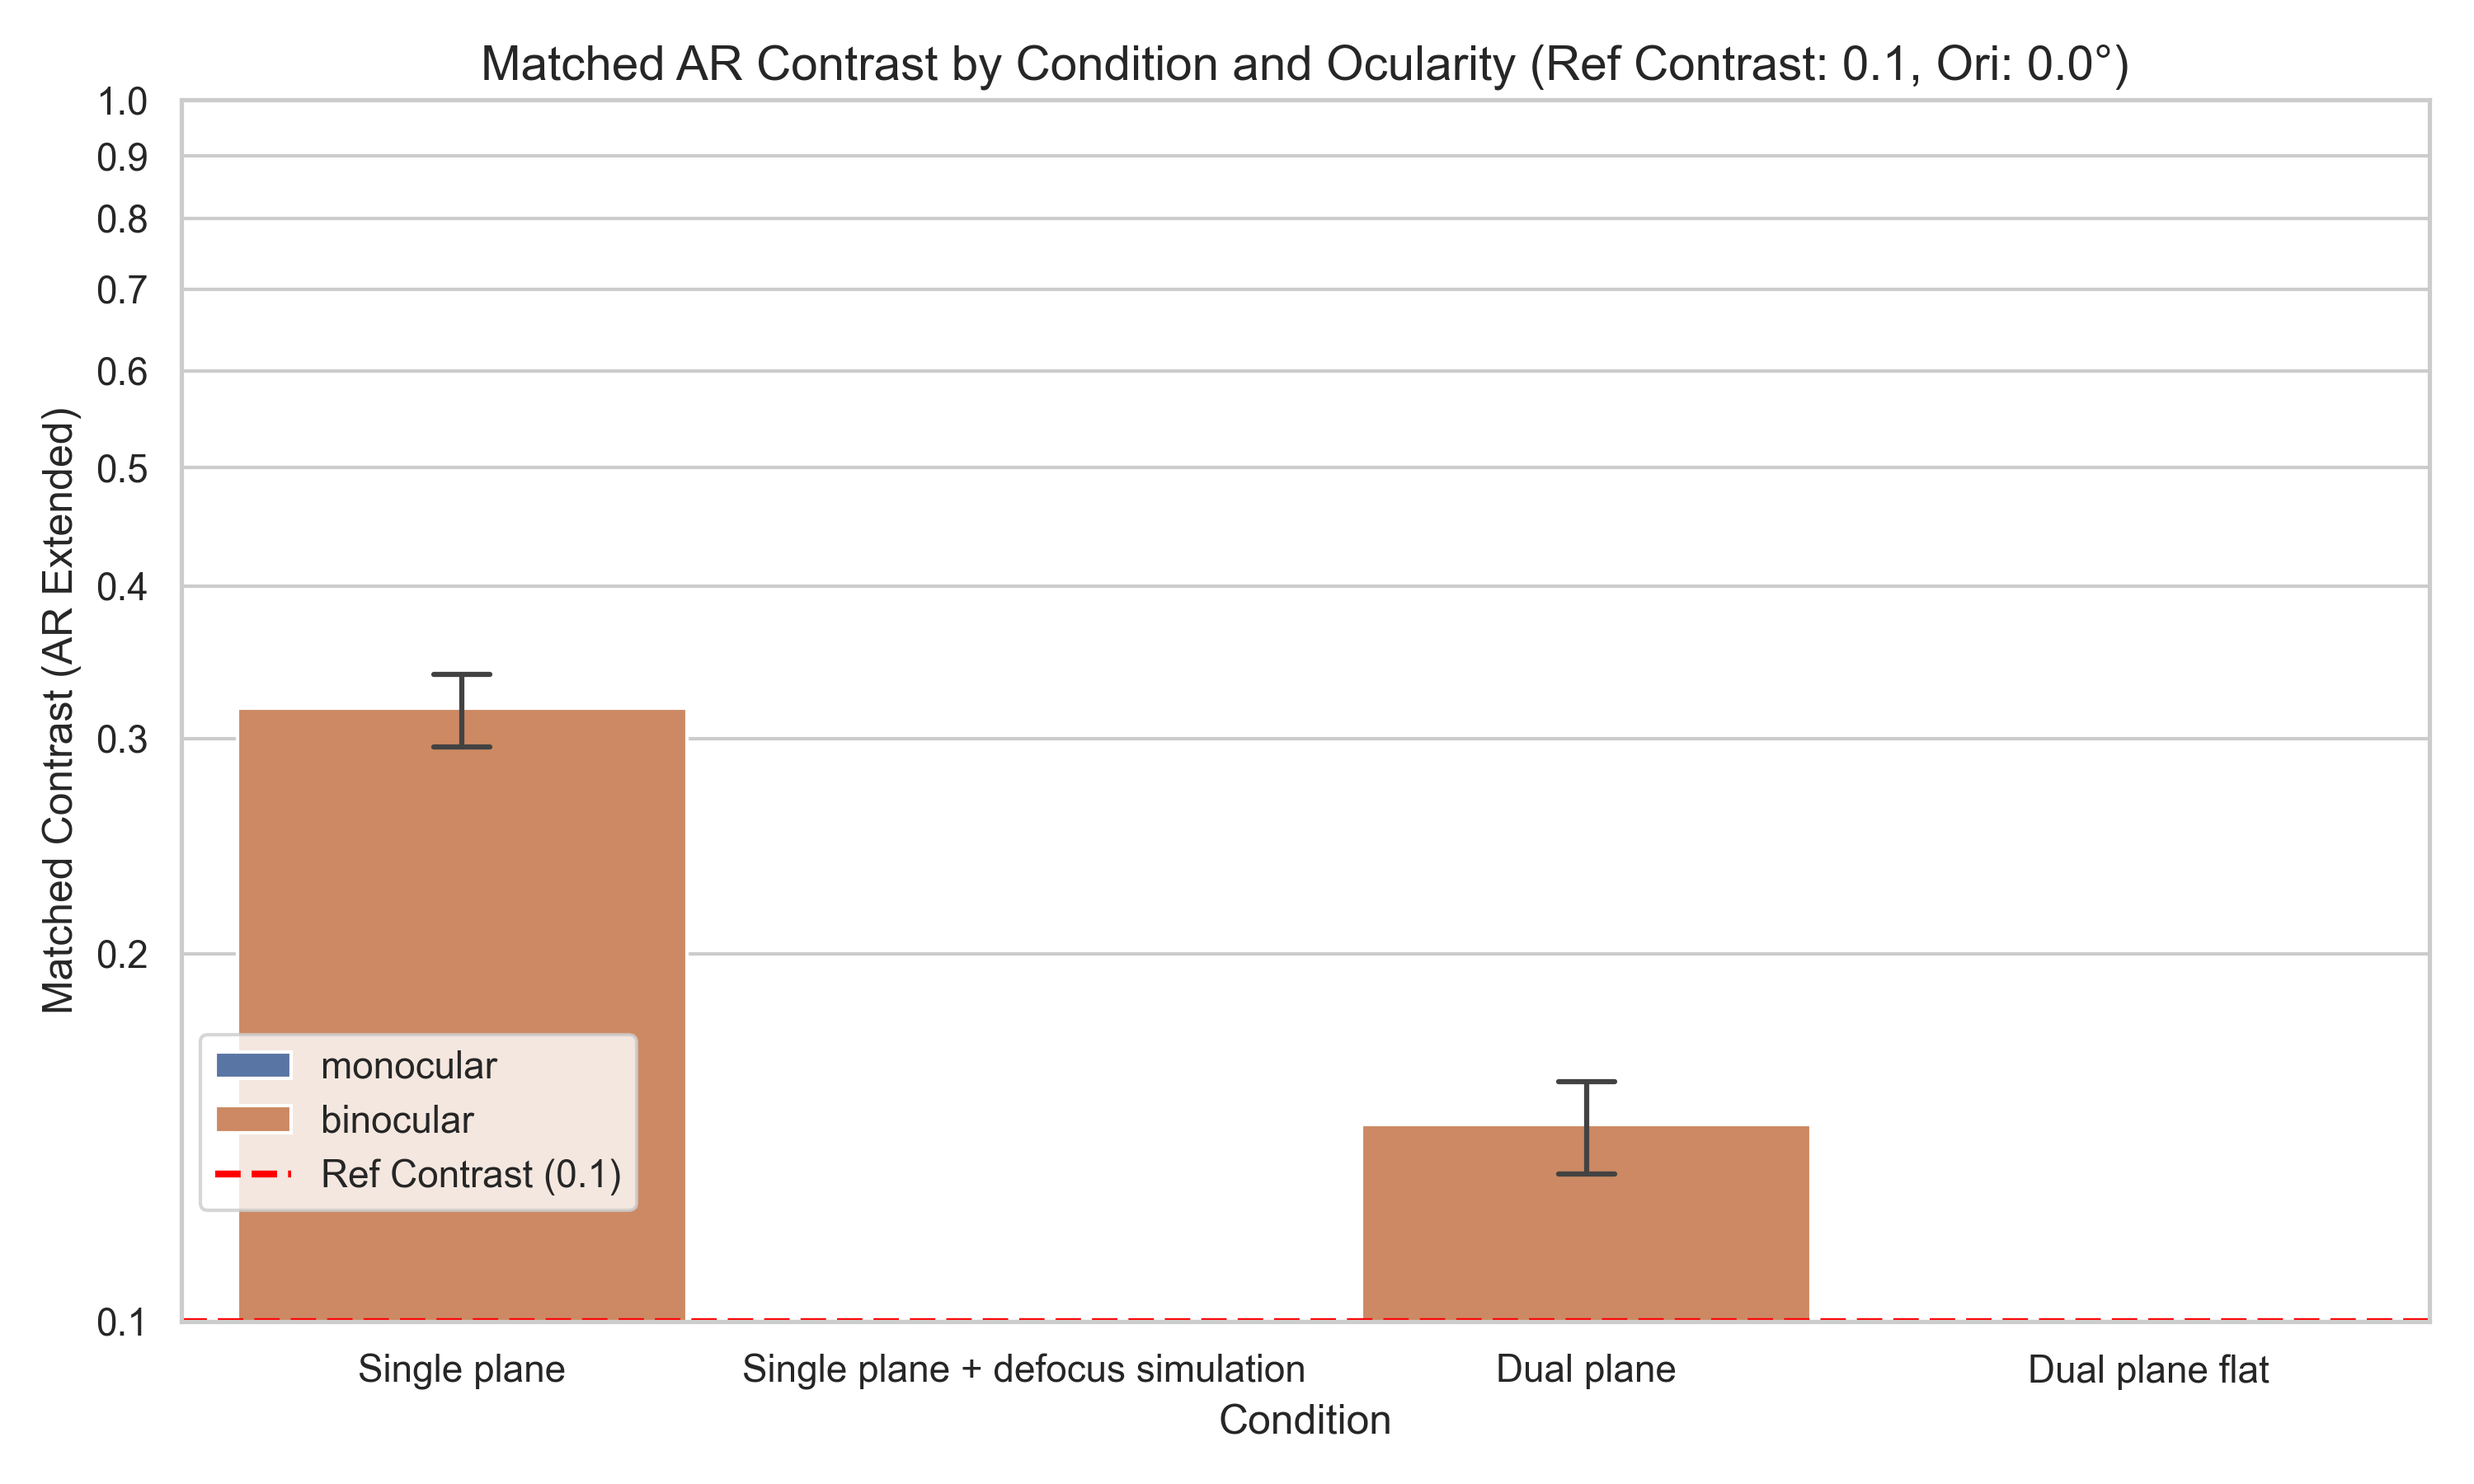
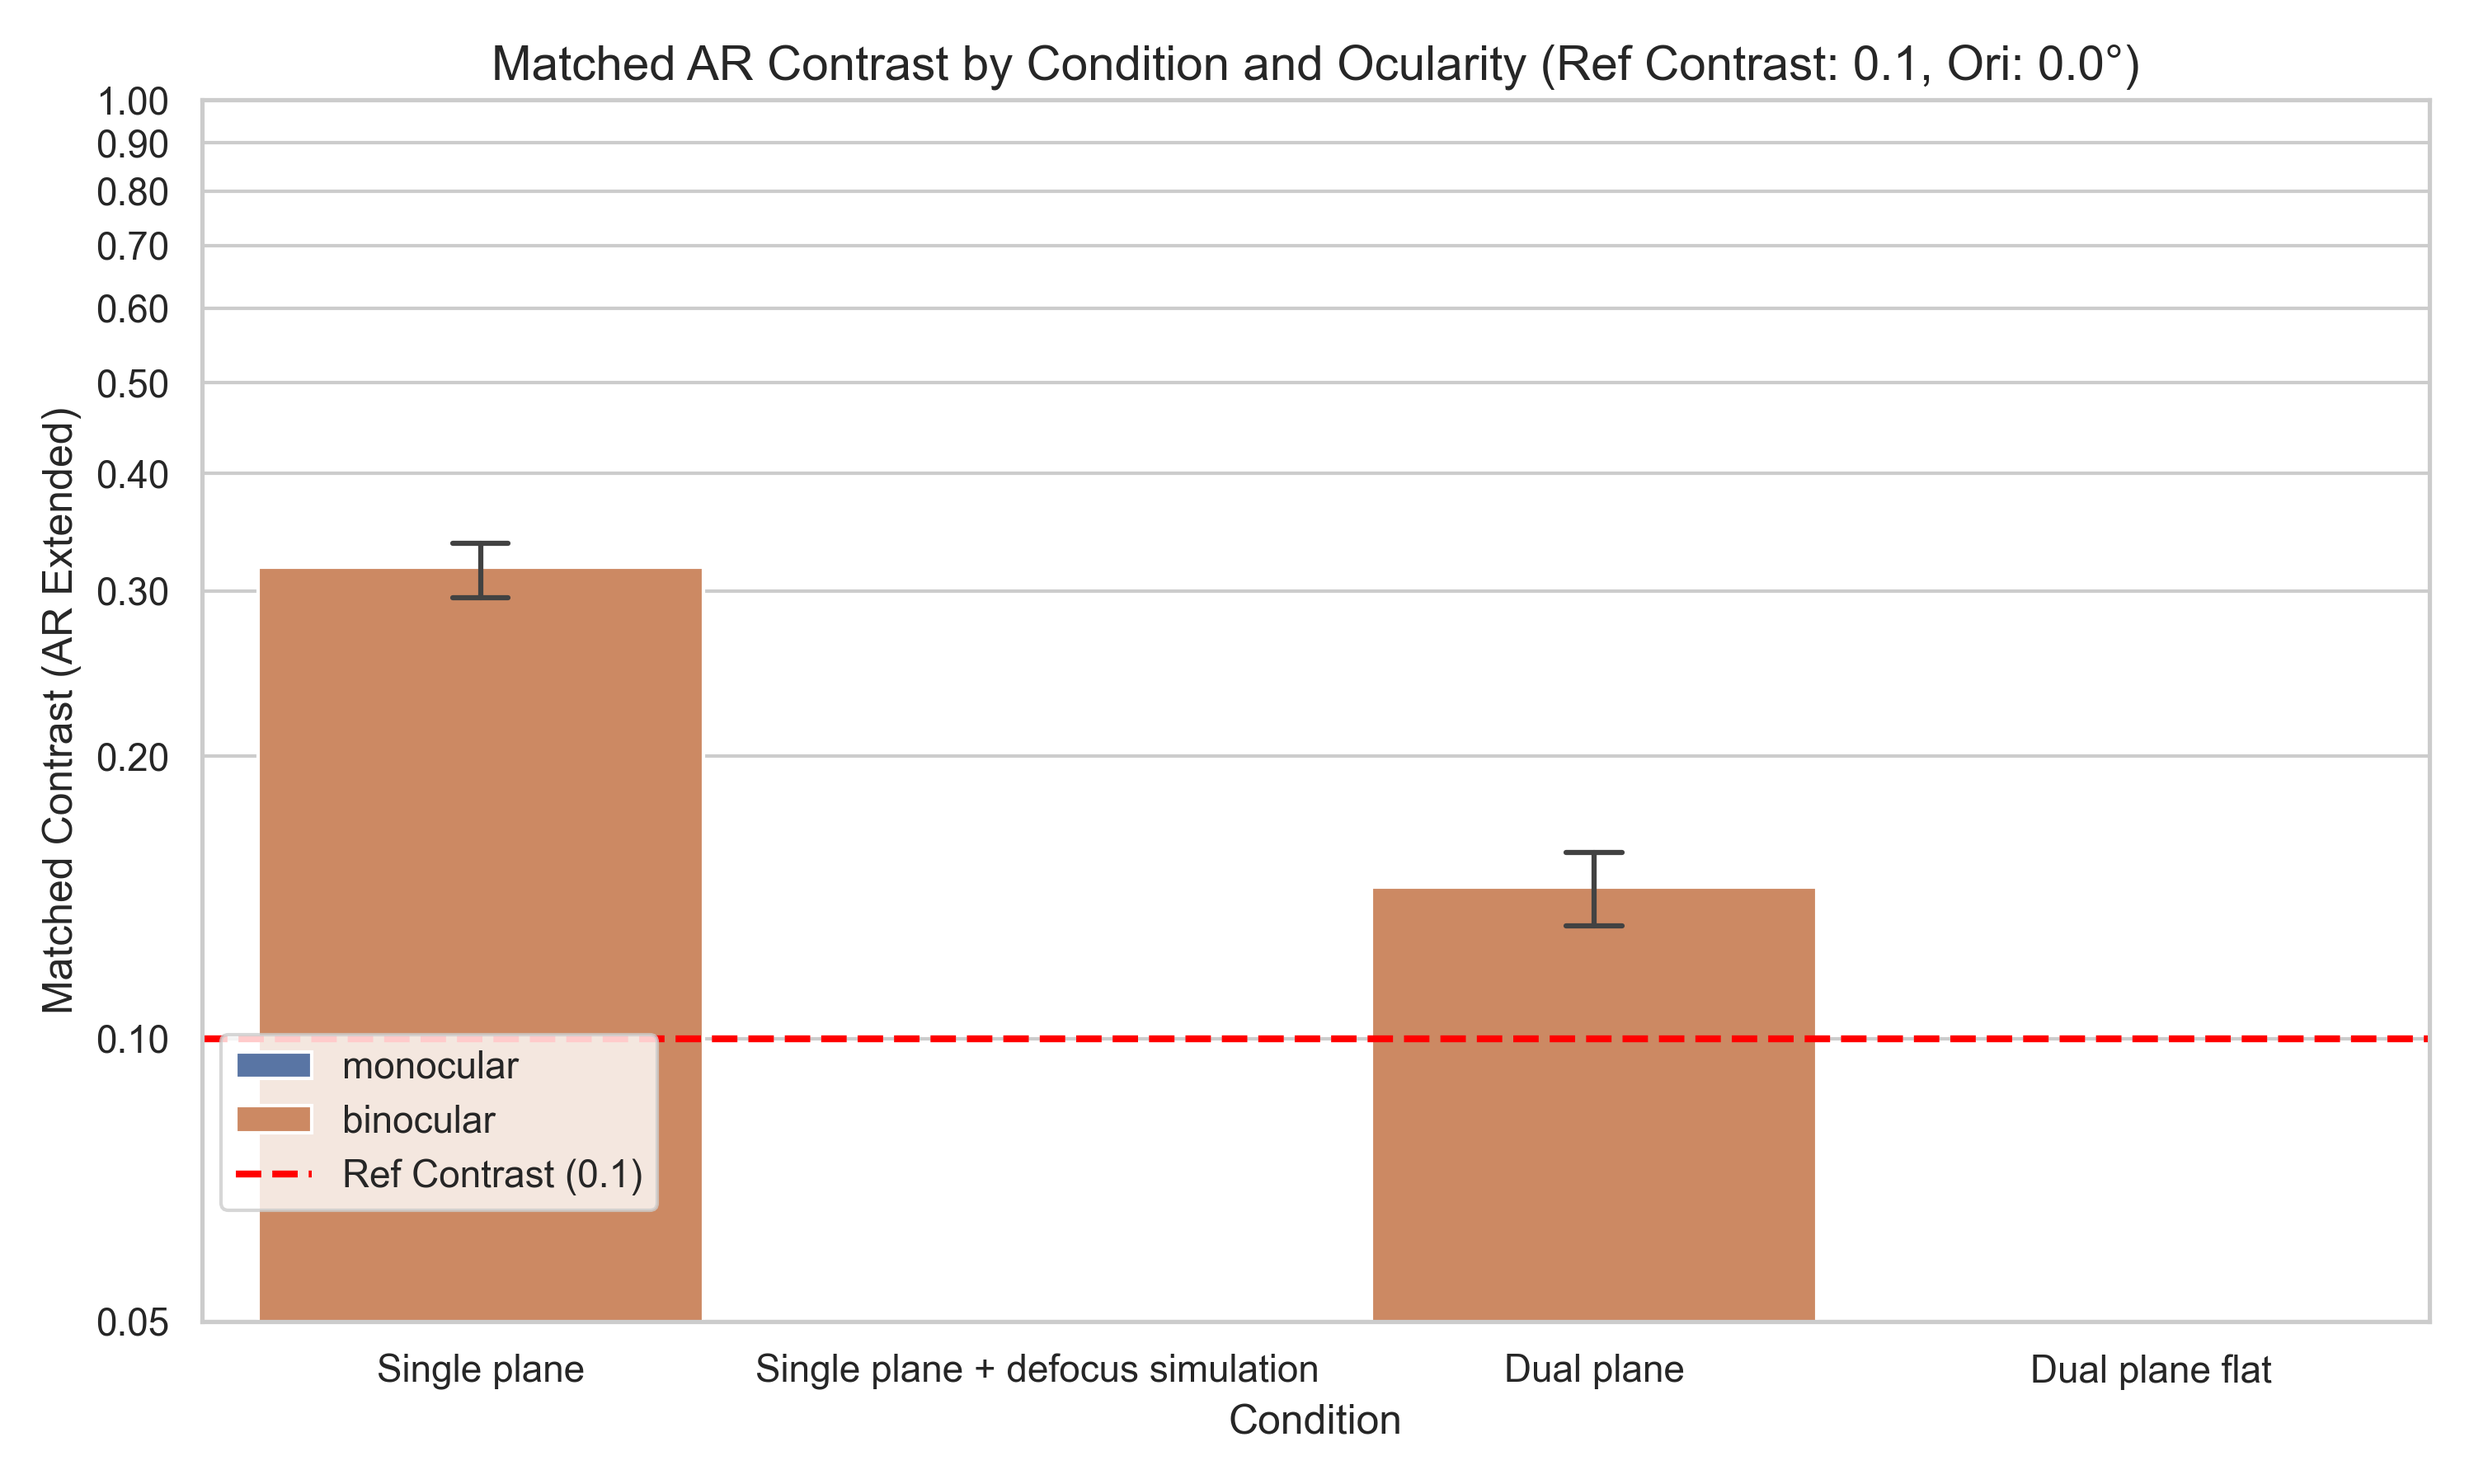
fix: グラフのスケール変更

diff --git a/src/experiment/pre-analyze/pre-analyze-matching-ar.py b/src/experiment/pre-analyze/pre-analyze-matching-ar.py
@@ -173,9 +173,9 @@ for ref_c in unique_ref_contrasts:
         ax.set_xlabel('Condition', fontsize=12)
         ax.set_yscale('log') # 縦軸をログスケールに設定
         
-        ax.set_ylim(0.1, 1.0) 
-        ax.set_yticks([0.1, 0.2, 0.3, 0.4, 0.5, 0.6, 0.7, 0.8, 0.9, 1.0])
-        ax.yaxis.set_major_formatter(ticker.FormatStrFormatter('%.1f'))
+        ax.set_ylim(0.05, 1.0) 
+        ax.set_yticks([0.05, 0.1, 0.2, 0.3, 0.4, 0.5, 0.6, 0.7, 0.8, 0.9, 1.0])
+        ax.yaxis.set_major_formatter(ticker.FormatStrFormatter('%.2f'))
         
         # x軸のラベルをそのまま表示（回転なし）
         labels = ax.get_xticklabels()
@@ -348,9 +348,9 @@ for ref_c in unique_ref_contrasts:
         ax.set_xlabel('Condition', fontsize=12)
         ax.set_yscale('log')
         
-        ax.set_ylim(0.1, 1.0) 
-        ax.set_yticks([0.1, 0.2, 0.3, 0.4, 0.5, 0.6, 0.7, 0.8, 0.9, 1.0])
-        ax.yaxis.set_major_formatter(ticker.FormatStrFormatter('%.1f'))
+        ax.set_ylim(0.05, 1.0) 
+        ax.set_yticks([0.05, 0.1, 0.2, 0.3, 0.4, 0.5, 0.6, 0.7, 0.8, 0.9, 1.0])
+        ax.yaxis.set_major_formatter(ticker.FormatStrFormatter('%.2f'))
         
         labels = ax.get_xticklabels()
         ax.set_xticklabels(labels)
@@ -414,9 +414,9 @@ for ref_c in unique_ref_contrasts:
         ax.set_xlabel('Condition', fontsize=12)
         ax.set_yscale('log')
         
-        ax.set_ylim(0.1, 1.0) 
-        ax.set_yticks([0.1, 0.2, 0.3, 0.4, 0.5, 0.6, 0.7, 0.8, 0.9, 1.0])
-        ax.yaxis.set_major_formatter(ticker.FormatStrFormatter('%.1f'))
+        ax.set_ylim(0.05, 1.0) 
+        ax.set_yticks([0.05, 0.1, 0.2, 0.3, 0.4, 0.5, 0.6, 0.7, 0.8, 0.9, 1.0])
+        ax.yaxis.set_major_formatter(ticker.FormatStrFormatter('%.2f'))
         
         labels = ax.get_xticklabels()
         ax.set_xticklabels(labels)
